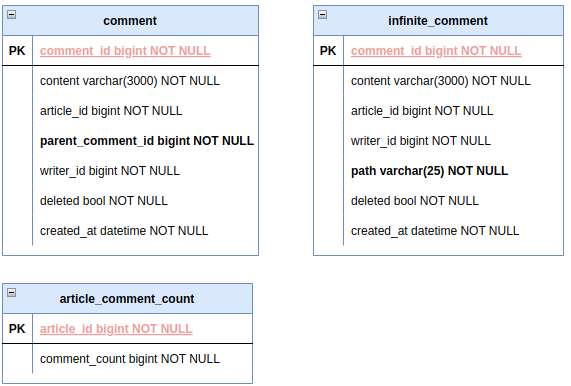
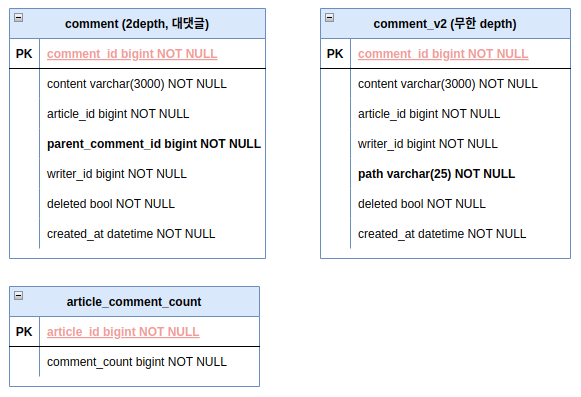
vault backup: 2025-07-03 21:58:55 (on desktop ubuntu)

Changed region(s): [[0.0, 0.0, 0.4764, 0.6528], [0.5359, 0.0, 1.0, 0.6528], [0.0, 0.715, 0.4466, 0.9948]]

diff --git a/1. Project/스프링부트로 직접 만들면서 배우는 대규모 시스템 설계/Untitled.md b/1. Project/스프링부트로 직접 만들면서 배우는 대규모 시스템 설계/Untitled.md
@@ -1,0 +1,76 @@
+
+**todo.**
+- service에 dto 클래스 보면 response에 AllArg* 있는데 굳이 필요하지 않아 보인다. 
+	- 오히려 pojo 방식으로 선언해서 할당하는게 가독성이 좋아 보임
+	- article, comment 모듈 수정하기 
+
+
+## 게시글 
+
+<img src="./image/article_erd.png"/>
+
+
+
+
+## 댓글 
+
+> **대댓글 (2depth) 방식**과 **무한 depth 방식** 둘 다 구현
+
+<img src="./image/comment_erd.png"/>
+- **대댓글** : comment_parent_id 기반으로 계층형 구조
+- **무한 depth**: varchar(25) path, 25개 문자열 기반으로 5개씩 나눠 계층 표현
+	- 총 5depth 존재 00000 00000 00000 00000 ~ zzzzz zzzzz zzzzz zzzzz zzzzz
+	- 각 자리는 **0-9A-Za-z**, 총 **62개** 문자열 중 하나
+		- 텍스트 선언 후 인덱스 기반으로 다음 문자열 가져와 처리
+	- depth 별로 댓글은 62^5 = 약 9억개 정도 할당 가능 
+	- depth 별로 댓글이 9억개가 넘어가면 문자열 길이(path)를 늘리거나 하면 됨
+- **삭제**의 경우 
+	- 자식이 있으면 논리적 삭제(`deleted = true`업데이트)
+	- 자식이 없으면 물리적 삭제(DB)
+
+**두 방식 비교.**
+
+
+
+**TODO.**
+- 게시판을 두개다 만들건지 아니면 하나만 할건지 선택해서 남겨두자 
+
+
+## 좋아요
+
+> **비관적 락(pessmistic lock)**, **낙관적 락(optimistick lock)** 방식을 둘 다 사용해 봄
+
+| 기능     | REST 표현                | HTTP 메서드 | 설명                   |
+| ------ | ---------------------- | -------- | -------------------- |
+| 좋아요    | `/articles/{id}/likes` | `POST`   | 좋아요 추가 (Like 리소스 생성) |
+| 좋아요 해제 | `/articles/{id}/likes` | `DELETE` | 좋아요 취소 (Like 리소스 제거) |
+- 좋아요 응답은 201 created
+- 좋아요 해제 응답은 204 no content
+
+|서비스 유형|추천 방식|
+|---|---|
+|**정합성 최우선 (재고/주문)**|비관적 락 (Pessimistic Lock)|
+|**많은 트래픽, 정확성 중요 (좋아요)**|낙관적 락 + 재시도, 또는 Redis 누적 후 DB 반영|
+|**캐시 허용 가능 (조회수, 좋아요)**|Redis 기반 처리 (성능 우선)|
+|**낮은 충돌 가능성 (로그 등)**|락 없이 처리|
+- 비관적 락을 사용하는 경우 
+	- update 방식과 select .. for update 방식이 있음
+	- 정합성은 높으나 데드락 위험 있음
+- 낙관적 락을 사용하는 경우 
+	- 재시도 로직이 필요함 (spring-retry)
+	- 재시도 로직이 없는 경우 데이터 유실 높음
+
+
+> 통합 테스트만 작성하는 걸로 함, 왜냐하면 service, repository 둘다 의미 없어 보이고 
+> 동시성 이슈에 대한 확인만 하면 되기 때문에 controller 단에서만 테스트하는게 맞다고 생각
+> - 처음에는 강의와 같이 비관적 락 (2개, `update`, `select .. for update`), 낙관적 락 테스트(재시도 x)
+> - `spring-retry` 추가해서 낙관적 락만 사용하는 걸로 최종 결정 후 리팩터링 
+
+
+**TODO.**
+- `userId`를 컨트롤러에서 path로 받는데 스프링 시큐리티나 그런걸로 주입받아 사용하는게 좋을듯함 
+	- 정책 : 로그인한 사용자에 한해서 `좋아요/좋아요 해제` 가능
+
+
+## 조회수
+

diff --git a/1. Project/스프링부트로 직접 만들면서 배우는 대규모 시스템 설계/메모.md b/1. Project/스프링부트로 직접 만들면서 배우는 대규모 시스템 설계/메모.md
@@ -401,7 +401,7 @@ order by article_id desc limit 30;
 - UUID
 	- 랜덤한 값이라 중복/충돌 가능성은 낮음
 	- 다만 DB 디스크 I/O 비용이 증가함
-- Snowflake
+- **Snowflake**
 	- 64 bit로 오름차순 정렬 기본으로 지원, 분산환경에서도 안전
 	- 알고리즘 러닝 커브 
 
@@ -415,6 +415,9 @@ order by article_id desc limit 30;
 			• 노드ID + 시퀀스 번호 : 고유성
 	• 유니크, 시간 기반 순차성, 분산 환경에서의 높은 성능
 ```
+
+
+<img src="./image/article_erd.png"/>
 
 ---
 
@@ -830,9 +833,12 @@ value /= 62; // 0
 
 ```
 
+<img src="./image/comment_erd.png">
+
 ---
 
 ## 섹션4. 게시글 좋아요
+
 **요구사항**
 - 각 사용자는 각 게시글마다 1회만 좋아요를 누를 수 있다
 	- 취소 가능
